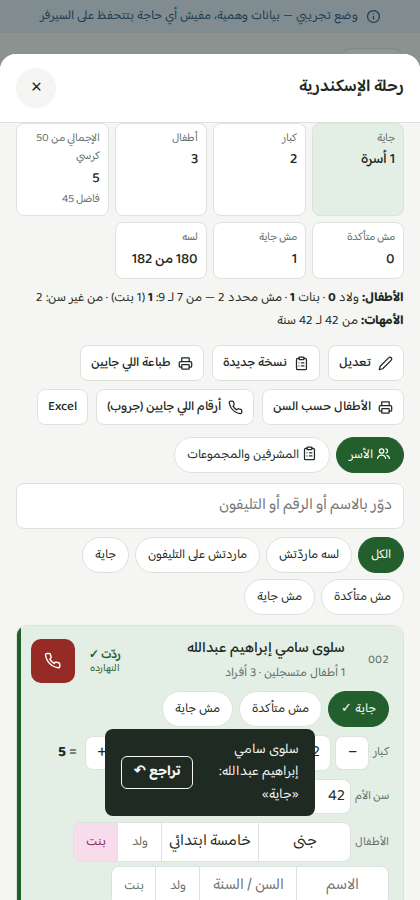
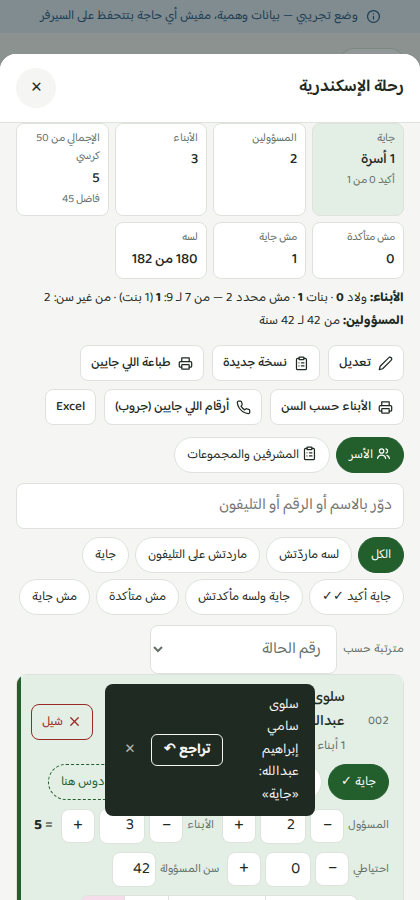
Trips: say «المسؤول / الأبناء» instead of «كبار / أطفال» (v1.3.49)
Claude-Session: https://claude.ai/code/session_01QQNigkUkHPjuU8wEiS2QHJ

diff --git a/app.js b/app.js
@@ -3,7 +3,7 @@ import { MONTHS, norm, cleanPhone, validPhone, phoneIssue, jpegsToPdf, assignKid
 import { ic } from "./icons.js";
 
 /* ================= config ================= */
-export const VERSION = "1.3.48";
+export const VERSION = "1.3.49";
 const SUPABASE_URL = "https://jvgxldhshbyyuftjgfrw.supabase.co";
 const SUPABASE_KEY = "sb_publishable_yS3OzVszjySNzCaRAyWpQA_pmKoPZJT";
 const DOMAIN = "daralekram.app";
@@ -2498,7 +2498,7 @@ function vEvents(){
   const list=events();
   return `<div class="row" style="justify-content:space-between;margin-bottom:12px"><h2 style="margin:0">رحلات وأنشطة</h2>${canWrite()?`<button class="btn pri" id="newEv">${ic("plus")}رحلة / نشاط جديد</button>`:""}</div>
   <div class="list">${list.map(e=>{ const t=eventTotals(e.id); return `<button class="item" data-event="${e.id}"><span class="grow"><span class="nm">${esc(e.title)}</span><br>
-    <span class="sub">${e.date?dLabel(e.date)+" · ":""}${e.place?esc(e.place)+" · ":""}جاية ${num(t.yes)} أسرة · ${num(t.people)} فرد (${num(t.adults)} كبار، ${num(t.kids)} أطفال) · اتردّ ${num(t.n-t.open)} من ${num(t.n)}</span></span>
+    <span class="sub">${e.date?dLabel(e.date)+" · ":""}${e.place?esc(e.place)+" · ":""}جاية ${num(t.yes)} أسرة · ${num(t.people)} فرد (${num(t.adults)} مسؤول، ${num(t.kids)} من الأبناء) · اتردّ ${num(t.n-t.open)} من ${num(t.n)}</span></span>
     ${e.capacity?`<span class="chip ${t.people>e.capacity?"red":""}">${num(t.people)}/${num(e.capacity)} كرسي</span>`:""}</button>`; }).join("")||`<div class="empty">مفيش رحلات لسه${canWrite()?" — اضغط «رحلة / نشاط جديد»":""}</div>`}</div>`;
 }
 function newEvent(){
@@ -2514,7 +2514,7 @@ function newEvent(){
     <h4>مين يتعزم</h4>
     <div class="seg" id="ev_types">${CASE_TYPES.map(t=>`<button class="on" data-ty="${esc(t)}">${esc(t)}</button>`).join("")}</div>
     <label class="chk"><input type="checkbox" id="ev_act" checked> الحالات النشطة بس</label>
-    <label class="chk"><input type="checkbox" id="ev_kids"> اللي عندها أطفال بس</label>
+    <label class="chk"><input type="checkbox" id="ev_kids"> اللي عندها أبناء بس</label>
     <div class="note" id="ev_n"></div>
     <label class="f">ملاحظات<input type="text" id="ev_notes" placeholder="مثال: التجمع 7 الصبح قدام الجمعية"></label>
     <div class="bar"><button class="btn pri" id="ev_go">${ic("save")}اعمل الكشف</button></div>`, s=>{
@@ -2539,7 +2539,7 @@ function copyEvent(id){
     <label class="f">اسم الكشف الجديد<input type="text" id="ec_t" value="${esc(e.title)} — الكشف النهائي"></label>
     <h4>مين ينزل في الكشف الجديد</h4>
     <div class="list">${Object.entries(RULES).map(([k,[l]],i)=>`<label class="item"><input type="radio" name="ec_r" value="${k}" ${k===(cnt("sure")?"sure":"yes")?"checked":""} style="width:20px;height:20px"><span class="grow">${l}</span><b>${num(cnt(k))} أسرة</b></label>`).join("")}</div>
-    <label class="chk"><input type="checkbox" id="ec_keep" checked> انقل الردود والأعداد وأسماء وأعمار الأطفال</label>
+    <label class="chk"><input type="checkbox" id="ec_keep" checked> انقل الردود والأعداد وأسماء وأعمار الأبناء</label>
     <label class="chk"><input type="checkbox" id="ec_sup" ${(e.supervisors||[]).length?"checked":""}> انقل المشرفين (${num((e.supervisors||[]).length)})</label>
     <div class="note">${ic("info")} <span>الكشف القديم بيفضل زي ما هو. وفي الجديد تقدر تضيف أو تشيل أسر عادي.</span></div>
     <div class="bar"><button class="btn pri" id="ec_go">${ic("save")}اعمل النسخة</button><button class="btn" id="ec_back">رجوع</button></div>`, s=>{
@@ -2582,13 +2582,13 @@ function openEvent(id){
         &&(only==="all"||(only==="open"?!r.answer:only==="noans"?!r.answer&&lastCall(b.id,ctx)?.result==="مردش":only==="sure"?r.answer==="جاية"&&r.sure:only==="unsure"?r.answer==="جاية"&&!r.sure:r.answer===only)));
     const seats=e.capacity?e.capacity-t.people:null;
     return `<div class="sub">${e.date?dLabel(e.date):"من غير يوم"}${e.place?" · "+esc(e.place):""}${e.notes?" · "+esc(e.notes):""}</div>
-    <div class="facts evfacts"><div class="ok"><span>جاية</span><strong>${num(t.yes)} أسرة</strong>${t.yes?`<small>أكيد ${num(t.sure)} من ${num(t.yes)}</small>`:""}</div><div><span>كبار</span><strong>${num(t.adults)}</strong></div><div><span>أطفال</span><strong>${num(t.kids)}</strong></div>
+    <div class="facts evfacts"><div class="ok"><span>جاية</span><strong>${num(t.yes)} أسرة</strong>${t.yes?`<small>أكيد ${num(t.sure)} من ${num(t.yes)}</small>`:""}</div><div><span>المسؤولين</span><strong>${num(t.adults)}</strong></div><div><span>الأبناء</span><strong>${num(t.kids)}</strong></div>
       <div class="${seats!=null&&seats<0?"neg":""}"><span>الإجمالي${e.capacity?` من ${num(e.capacity)} كرسي`:""}</span><strong>${num(t.people)}</strong>${seats!=null?`<small>${seats>=0?`فاضل ${num(seats)}`:`زيادة ${num(-seats)}`}</small>`:""}</div>
       ${t.reserve?(()=>{ const wait=t.reserve-t.rsvYes-t.rsvNo; return `<div class="rsv"><span>احتياطي</span><strong>${num(t.reserve)}</strong><small>جاي ${num(t.rsvYes)}${t.rsvNo?` · مش جاي ${num(t.rsvNo)}`:""}${wait?` · مستني ${num(wait)}`:""}</small>${wait?`<small>${seats==null?`لو جم: ${num(t.people+wait)}`:seats<=0?"مفيش كراسي للمستنيين":seats>=wait?"الكراسي تكفي المستنيين":`الكراسي تكفي ${num(seats)} من المستنيين`}</small>`:""}</div>`; })():""}
       <div><span>مش متأكدة</span><strong>${num(t.maybe)}</strong>${t.maybePeople?`<small>${num(t.maybePeople)} فرد</small>`:""}</div><div><span>مش جاية</span><strong>${num(t.no)}</strong></div><div><span>لسه</span><strong>${num(t.open)} من ${num(t.n)}</strong></div></div>
-    ${t.kids||t.moms.length?`<div class="agesum">${t.kids?`<b>الأطفال:</b> ${bandsText(t.bands,true)}`:""}
-      ${t.moms.length?`<br><b>الأمهات:</b> من ${num(Math.min(...t.moms))} لـ ${num(Math.max(...t.moms))} سنة${t.moms.length<t.yes?` <span class="muted">(${num(t.yes-t.moms.length)} من غير سن)</span>`:""}`:""}</div>`:""}
-    <div class="bar">${cw?`<button class="btn sm" id="e_edit">${ic("edit")}تعديل</button><button class="btn sm" id="e_copy">${ic("list")}نسخة جديدة</button>`:""}<button class="btn sm" id="e_print">${ic("printer")}طباعة اللي جايين</button><button class="btn sm" id="e_ages">${ic("printer")}الأطفال حسب السن</button><button class="btn sm" id="e_phones">${ic("phone")}أرقام اللي جايين (جروب)</button><button class="btn sm" id="e_x">Excel</button></div>
+    ${t.kids||t.moms.length?`<div class="agesum">${t.kids?`<b>الأبناء:</b> ${bandsText(t.bands,true)}`:""}
+      ${t.moms.length?`<br><b>المسؤولين:</b> من ${num(Math.min(...t.moms))} لـ ${num(Math.max(...t.moms))} سنة${t.moms.length<t.yes?` <span class="muted">(${num(t.yes-t.moms.length)} من غير سن)</span>`:""}`:""}</div>`:""}
+    <div class="bar">${cw?`<button class="btn sm" id="e_edit">${ic("edit")}تعديل</button><button class="btn sm" id="e_copy">${ic("list")}نسخة جديدة</button>`:""}<button class="btn sm" id="e_print">${ic("printer")}طباعة اللي جايين</button><button class="btn sm" id="e_ages">${ic("printer")}الأبناء حسب السن</button><button class="btn sm" id="e_phones">${ic("phone")}أرقام اللي جايين (جروب)</button><button class="btn sm" id="e_x">Excel</button></div>
     <div class="seg etabs" role="tablist"><button class="${etab==="fam"?"on":""}" data-etab="fam">${ic("users")} الأسر</button><button class="${etab==="sup"?"on":""}" data-etab="sup">${ic("list")} المشرفين والمجموعات${(e.supervisors||[]).length?` (${num(e.supervisors.length)})`:""}</button></div>
     ${etab==="sup"?supPanel(id,supEdit):`
     <div class="row" style="margin:8px 0"><input type="search" id="e_q" placeholder="دوّر بالاسم أو الرقم أو التليفون" value="${esc(q_)}" style="flex:1 1 200px"></div>
@@ -2597,15 +2597,15 @@ function openEvent(id){
     <datalist id="rsv_why">${RSV_WHY.map(w=>`<option value="${w}">`).join("")}</datalist>
     <div class="list evlist">${rows.map(({r,b})=>{ const a=ANSWERS[r.answer], showN=r.answer==="جاية"||r.answer==="مش متأكدة", g=guessCounts(b);
       return `<div class="item col evrow ${a?"a-"+a.cls:rowCallCls(b.id,ctx)}${r.answer==="جاية"&&r.sure?" a-sure":""}">
-        <div class="row" style="width:100%"><span class="code">${esc(b.code)}</span><span class="grow"><span class="nm">${esc(b.name)}</span><br><span class="sub">${kidsOf(b)?`${num(kidsOf(b))} أطفال متسجلين`:"مفيش أطفال متسجلين"}${famSize(b)?` · ${num(famSize(b))} أفراد`:""}</span></span>${callCell(b.id,b.phone,ctx)}${cw?`<button class="evrm" data-evrm="${r.id}" aria-label="شيل ${esc(b.name)} من الكشف">${ic("x")}شيل</button>`:""}</div>
+        <div class="row" style="width:100%"><span class="code">${esc(b.code)}</span><span class="grow"><span class="nm">${esc(b.name)}</span><br><span class="sub">${kidsOf(b)?`${num(kidsOf(b))} أبناء متسجلين`:"مفيش أبناء متسجلين"}${famSize(b)?` · ${num(famSize(b))} أفراد`:""}</span></span>${callCell(b.id,b.phone,ctx)}${cw?`<button class="evrm" data-evrm="${r.id}" aria-label="شيل ${esc(b.name)} من الكشف">${ic("x")}شيل</button>`:""}</div>
         <div class="row evctl"><span class="seg ans" role="group" aria-label="ردها">${Object.entries(ANSWERS).map(([k,v])=>`<button class="${r.answer===k?"on "+v.cls:""}" data-ans="${k}" data-ep="${r.id}" ${edit?"":"disabled"}>${v.label}</button>`).join("")}</span>
           ${r.answer==="جاية"?`<button class="sure ${r.sure?"on":""}" data-sure="${r.id}" aria-pressed="${!!r.sure}" ${edit?"":"disabled"}>${r.sure?"أكيد ✓✓":"أكّدت؟ دوس هنا"}</button>${r.sure&&r.sure_at&&evSort.get(id)==="sure"?`<span class="sub">${esc(new Date(r.sure_at).toLocaleString("ar-EG",{day:"numeric",month:"numeric",hour:"numeric",minute:"2-digit"}))}</span>`:""}`:""}
-          ${showN?`${stp(r,"adults","كبار",edit)}${stp(r,"kids","أطفال",edit)}<span class="evsum">= <b>${num((+r.adults||0)+(+r.kids||0))}</b></span>${stp(r,"reserve","احتياطي",edit)}${+r.reserve?`<span class="ages rsvl"><small>الاحتياطي</small>${reserveOf(r).slice(0,20).map((x,i)=>`<span class="kid rsvp"><input type="text" class="kname" data-rv="${r.id}" data-i="${i}" data-k="who" value="${esc(x.who)}" placeholder="مين؟ (أختها)" ${edit?"":"disabled"} aria-label="الاحتياطي ${i+1} مين"><input type="text" class="kage" data-rv="${r.id}" data-i="${i}" data-k="age" value="${esc(x.stage||(x.age??""))}" placeholder="السن" ${edit?"":"disabled"} aria-label="سن الاحتياطي ${i+1}"><input type="text" class="rwhy" list="rsv_why" data-rv="${r.id}" data-i="${i}" data-k="why" value="${esc(x.why)}" placeholder="ليه احتياطي؟" ${edit?"":"disabled"} aria-label="سبب إنه احتياطي">${[["1","جاي ✓","boy"],["0","مش جاي","girl"]].map(([v,l,c])=>`<button class="sx ${String(x.coming===true?1:x.coming===false?0:"")===v?c:""}" data-rvc="${r.id}" data-i="${i}" data-v="${v}" aria-pressed="${String(x.coming===true?1:x.coming===false?0:"")===v}" ${edit?"":"disabled"}>${l}</button>`).join("")}</span>`).join("")}</span>`:""}`:""}
-          ${showN?`<span class="ages"><small>سن الأم</small><input type="number" min="10" max="110" inputmode="numeric" data-mom="${r.id}" value="${r.mother_age??""}" placeholder="؟" ${edit?"":"disabled"} aria-label="سن الأم"></span>`:""}
-          ${showN&&+r.kids?`<span class="ages"><small>الأطفال</small>${kidsComing(r).slice(0,20).map((k,i)=>`<span class="kid"><input type="text" class="kname" data-kn="${r.id}" data-i="${i}" value="${esc(k.name)}" placeholder="الاسم" ${edit?"":"disabled"} aria-label="اسم الطفل ${i+1}"><input type="text" class="kage" data-age="${r.id}" data-i="${i}" value="${esc(k.stage||(k.a??""))}" placeholder="السن / السنة" title="اكتب السن (مثلاً 9) أو السنة الدراسية (مثلاً 3 ثانوي)" ${edit?"":"disabled"} aria-label="سن الطفل ${i+1}">${["ولد","بنت"].map(x=>`<button class="sx ${k.sex===x?(x==="ولد"?"boy":"girl"):""}" data-sx="${r.id}" data-i="${i}" data-v="${x}" aria-pressed="${k.sex===x}" ${edit?"":"disabled"} aria-label="الطفل ${i+1} ${x}">${x}</button>`).join("")}</span>`).join("")}</span>`:""}
+          ${showN?`${stp(r,"adults","المسؤول",edit)}${stp(r,"kids","الأبناء",edit)}<span class="evsum">= <b>${num((+r.adults||0)+(+r.kids||0))}</b></span>${stp(r,"reserve","احتياطي",edit)}${+r.reserve?`<span class="ages rsvl"><small>الاحتياطي</small>${reserveOf(r).slice(0,20).map((x,i)=>`<span class="kid rsvp"><input type="text" class="kname" data-rv="${r.id}" data-i="${i}" data-k="who" value="${esc(x.who)}" placeholder="مين؟ (أختها)" ${edit?"":"disabled"} aria-label="الاحتياطي ${i+1} مين"><input type="text" class="kage" data-rv="${r.id}" data-i="${i}" data-k="age" value="${esc(x.stage||(x.age??""))}" placeholder="السن" ${edit?"":"disabled"} aria-label="سن الاحتياطي ${i+1}"><input type="text" class="rwhy" list="rsv_why" data-rv="${r.id}" data-i="${i}" data-k="why" value="${esc(x.why)}" placeholder="ليه احتياطي؟" ${edit?"":"disabled"} aria-label="سبب إنه احتياطي">${[["1","جاي ✓","boy"],["0","مش جاي","girl"]].map(([v,l,c])=>`<button class="sx ${String(x.coming===true?1:x.coming===false?0:"")===v?c:""}" data-rvc="${r.id}" data-i="${i}" data-v="${v}" aria-pressed="${String(x.coming===true?1:x.coming===false?0:"")===v}" ${edit?"":"disabled"}>${l}</button>`).join("")}</span>`).join("")}</span>`:""}`:""}
+          ${showN?`<span class="ages"><small>سن المسؤولة</small><input type="number" min="10" max="110" inputmode="numeric" data-mom="${r.id}" value="${r.mother_age??""}" placeholder="؟" ${edit?"":"disabled"} aria-label="سن المسؤولة"></span>`:""}
+          ${showN&&+r.kids?`<span class="ages"><small>الأبناء</small>${kidsComing(r).slice(0,20).map((k,i)=>`<span class="kid"><input type="text" class="kname" data-kn="${r.id}" data-i="${i}" value="${esc(k.name)}" placeholder="الاسم" ${edit?"":"disabled"} aria-label="اسم الطفل ${i+1}"><input type="text" class="kage" data-age="${r.id}" data-i="${i}" value="${esc(k.stage||(k.a??""))}" placeholder="السن / السنة" title="اكتب السن (مثلاً 9) أو السنة الدراسية (مثلاً 3 ثانوي)" ${edit?"":"disabled"} aria-label="سن الطفل ${i+1}">${["ولد","بنت"].map(x=>`<button class="sx ${k.sex===x?(x==="ولد"?"boy":"girl"):""}" data-sx="${r.id}" data-i="${i}" data-v="${x}" aria-pressed="${k.sex===x}" ${edit?"":"disabled"} aria-label="الطفل ${i+1} ${x}">${x}</button>`).join("")}</span>`).join("")}</span>`:""}
 </div>
         ${showN||r.note?`<input type="text" class="evnote" data-note="${r.id}" value="${esc(r.note||"")}" placeholder="ملاحظة (مثال: معاها بنت أختها، محتاجة كرسي متحرك)" ${edit?"":"disabled"}>`:""}
-        ${!showN&&!r.answer?`<span class="sub" style="font-size:12px">لو قالت جاية هنحط ${num(g.adults)} كبار و${num(g.kids)} أطفال وتقدر تعدّل</span>`:""}
+        ${!showN&&!r.answer?`<span class="sub" style="font-size:12px">لو قالت جاية هنحط ${num(g.adults)} مسؤول و${num(g.kids)} من الأبناء وتقدر تعدّل</span>`:""}
       </div>`; }).join("")||`<div class="empty">مفيش نتيجة</div>`}</div>
     ${cw?`<details class="addbox" ${addQ?"open":""}><summary>${ic("plus")}ضيف أسرة للرحلة</summary><button class="btn sm" id="e_paper" style="margin-bottom:8px">${ic("edit")}من ورقة بخط الإيد</button><input type="search" id="e_add" placeholder="اكتب الاسم أو رقم الحالة" value="${esc(addQ)}"><div id="e_addRes"></div></details>`:""}`}`;
   };
@@ -2629,7 +2629,7 @@ function openEvent(id){
       setRsvp(r.id,{ reserve_list:list, reserve_who:list.map(x=>x.who).filter(Boolean).join("، ") }); });
     s.querySelectorAll("[data-num]").forEach(el=>el.onchange=()=>setRsvp(el.dataset.num,{ [el.dataset.f]:Math.max(0,Math.min(el.dataset.f==="reserve"?20:50,Math.round(+el.value||0))) }));
     s.querySelectorAll("[data-note]").forEach(el=>el.onchange=()=>setRsvp(el.dataset.note,{ note:el.value.trim() }));
-    s.querySelectorAll("[data-mom]").forEach(el=>el.onchange=()=>{ const v=el.value===""?null:Math.round(+el.value); if(v!=null&&(v<10||v>110)){ toast("سن الأم لازم يبقى بين 10 و110"); return; } setRsvp(el.dataset.mom,{ mother_age:v }); });
+    s.querySelectorAll("[data-mom]").forEach(el=>el.onchange=()=>{ const v=el.value===""?null:Math.round(+el.value); if(v!=null&&(v<10||v>110)){ toast("السن لازم يبقى بين 10 و110"); return; } setRsvp(el.dataset.mom,{ mother_age:v }); });
     s.querySelectorAll("[data-kn]").forEach(el=>el.onchange=()=>{ const r=EP.get(el.dataset.kn), nm=Array.from({length:+r.kids||0},(_,i)=>(r.kid_names||[])[i]||null);
       nm[+el.dataset.i]=el.value.trim()||null; setRsvp(r.id,{ kid_names:nm }); });
     s.querySelectorAll("[data-sx]").forEach(el=>el.onclick=()=>{ const r=EP.get(el.dataset.sx), sx=Array.from({length:+r.kids||0},(_,i)=>(r.kid_sexes||[])[i]||null), i=+el.dataset.i;
@@ -2695,14 +2695,14 @@ function supPanel(id, editing){
       <label class="f">لحد (اختياري)<input type="number" id="su_max" min="0" max="25" value="${ed?.max??""}"></label></div>
     <div class="bar"><button class="btn pri" id="su_go" data-sid="${ed?.id||""}">${ic("save")}${ed?"حفظ":"ضيف"}</button>${ed?`<button class="btn" id="su_cancel">إلغاء</button>`:""}</div></details>`:"";
   const placed=kids.length-left.length;
-  return `${!kids.length?`<div class="note">${ic("info")} <span>لسه مفيش أطفال جايين — لما تسجل «جاية» وعدد الأطفال في تاب «الأسر»، هيتقسموا هنا.</span></div>`:
-    `<div class="note ${left.length?"":"green"}">${ic("info")} <span>${num(kids.length)} طفل جايين — اتوزع ${num(placed)} على ${num(sups.length)} مشرف${left.length?` · <b>${num(left.length)} مش متوزعين</b> (تحت)`:""}. التوزيع بيتعمل لوحده ويتحدّث مع أي تغيير.</span></div>`}
+  return `${!kids.length?`<div class="note">${ic("info")} <span>لسه مفيش أبناء جايين — لما تسجل «جاية» وعدد الأبناء في تاب «الأسر»، هيتقسموا هنا.</span></div>`:
+    `<div class="note ${left.length?"":"green"}">${ic("info")} <span>${num(kids.length)} من الأبناء جايين — اتوزع ${num(placed)} على ${num(sups.length)} مشرف${left.length?` · <b>${num(left.length)} مش متوزعين</b> (تحت)`:""}. التوزيع بيتعمل لوحده ويتحدّث مع أي تغيير.</span></div>`}
     ${form}
     <div class="list supgroups">${sups.map(sp=>{ const g=groups.get(sp.id)||[]; return `<details class="item col supg" data-keep="${sp.id}" ${supOpen.has(sp.id)?"open":""}><summary class="row" style="width:100%">
         <span class="chip ${sp.sex==="ست"?"girl":"boy"}">${esc(sp.sex)}</span><span class="grow"><span class="nm">${esc(sp.name)}</span><br><span class="sub">${supRule(sp)}${sp.phone?` · <span dir="ltr">${esc(sp.phone)}</span>`:""}</span></span>
-        <span class="supn"><b>${num(g.length)}</b> طفل${g.length?`<small>${sexCount(g)}${(()=>{ const ag=g.filter(k=>k.a!=null).map(k=>k.a); if(!ag.length) return ""; const lo=Math.min(...ag), hi=Math.max(...ag); return lo===hi?` · سن ${num(lo)}`:` · من ${num(lo)} لـ ${num(hi)} سنة`; })()}</small>`:""}</span></summary>
+        <span class="supn"><b>${num(g.length)}</b> فرد${g.length?`<small>${sexCount(g)}${(()=>{ const ag=g.filter(k=>k.a!=null).map(k=>k.a); if(!ag.length) return ""; const lo=Math.min(...ag), hi=Math.max(...ag); return lo===hi?` · سن ${num(lo)}`:` · من ${num(lo)} لـ ${num(hi)} سنة`; })()}</small>`:""}</span></summary>
         <div class="bar" style="margin:6px 0">${sp.phone?`<a class="btn sm" href="tel:${esc(cleanPhone(sp.phone))}">${ic("phone")}اتصل</a>`:""}${cw?`<button class="btn sm" data-sued="${sp.id}">${ic("edit")}تعديل</button><button class="btn sm danger" data-surm="${sp.id}">شيل</button>`:""}</div>
-        <ol class="kids">${g.map(k=>`<li>${kidLine(k)}</li>`).join("")||`<li class="sub">مفيش أطفال لحد دلوقتي</li>`}</ol></details>`; }).join("")}</div>
+        <ol class="kids">${g.map(k=>`<li>${kidLine(k)}</li>`).join("")||`<li class="sub">مفيش أبناء لحد دلوقتي</li>`}</ol></details>`; }).join("")}</div>
     ${left.length?`<h4>مش متوزعين (${num(left.length)})</h4><div class="note red">${ic("alert")} <span>كمّل السن أو ولد/بنت في تاب «الأسر»، أو ضيف مشرف ليهم، أو وسّع سن مشرف.</span></div>
       <ol class="kids">${left.map(x=>`<li>${kidLine(x.kid)} — <b>${esc(x.why)}</b></li>`).join("")}</ol>`:""}
     ${sups.length&&kids.length?`<div class="bar"><button class="btn" id="su_print">${ic("printer")}طباعة المجموعات</button><button class="btn sm" id="su_x">Excel المجموعات</button></div>`:""}`;
@@ -2724,9 +2724,9 @@ function bindSup(s, id, setEdit){
   if(q("#su_cancel")) q("#su_cancel").onclick=()=>setEdit(null);
   s.querySelectorAll("[data-sued]").forEach(el=>el.onclick=e=>{ e.preventDefault(); setEdit(el.dataset.sued); });
   s.querySelectorAll("[data-surm]").forEach(el=>el.onclick=e=>{ e.preventDefault(); const cur=EV.get(id).supervisors||[], sp=cur.find(x=>x.id===el.dataset.surm);
-    saveSups(id, cur.filter(x=>x.id!==sp.id), `${sp.name} اتشال — الأطفال بتوعه اتوزعوا على الباقيين`, cur); });
+    saveSups(id, cur.filter(x=>x.id!==sp.id), `${sp.name} اتشال — الأبناء اللي معاه اتوزعوا على الباقيين`, cur); });
   if(q("#su_print")) q("#su_print").onclick=()=>doPrint(groupsHTML(id), EV.get(id).title+" — المجموعات");
-  if(q("#su_x")) q("#su_x").onclick=()=>{ const { sups, groups, left } = tripGroups(id), rows=[["المشرف","راجل/ست","اسم الطفل","السن","السنة الدراسية","ولد/بنت","الأم","رقم الحالة","تليفون الأم"]];
+  if(q("#su_x")) q("#su_x").onclick=()=>{ const { sups, groups, left } = tripGroups(id), rows=[["المشرف","راجل/ست","الاسم","السن","السنة الدراسية","ولد/بنت","الأم / المسؤولة","رقم الحالة","تليفون المسؤولة"]];
     sups.forEach(sp=>(groups.get(sp.id)||[]).forEach(k=>rows.push([sp.name,sp.sex,k.name||"",k.a??"",k.stage||"",k.sex||"",k.mom,k.code,k.phone])));
     left.forEach(x=>rows.push(["مش متوزع: "+x.why,"",x.kid.name||"",x.kid.a??"",x.kid.stage||"",x.kid.sex||"",x.kid.mom,x.kid.code,x.kid.phone]));
     xlsx({"المجموعات":rows},`${EV.get(id).title} — المجموعات.xlsx`); };
@@ -2734,14 +2734,14 @@ function bindSup(s, id, setEdit){
 function groupsHTML(id){
   const e=EV.get(id), { sups, groups, left } = tripGroups(id);
   return `<div class="ps">${hdr()}<h1>${esc(e.title)} — مجموعات المشرفين</h1><div class="mo">${e.date?dLabel(e.date):""}${e.place?" — "+esc(e.place):""}</div>
-    ${sups.map(sp=>{ const g=groups.get(sp.id)||[]; return `<h3 style="margin:12px 0 4px">${esc(sp.name)} (${esc(sp.sex)})${sp.phone?` — ${esc(sp.phone)}`:""} — ${num(g.length)} طفل${g.length?` (${sexCount(g)})`:""}</h3>
-      <table><thead><tr><th>م</th><th>الاسم</th><th>السن</th><th>ولد/بنت</th><th>الأم</th><th>رقم الحالة</th><th>تليفون الأم</th><th>حضر</th><th>رجع</th></tr></thead><tbody>
+    ${sups.map(sp=>{ const g=groups.get(sp.id)||[]; return `<h3 style="margin:12px 0 4px">${esc(sp.name)} (${esc(sp.sex)})${sp.phone?` — ${esc(sp.phone)}`:""} — ${num(g.length)} فرد${g.length?` (${sexCount(g)})`:""}</h3>
+      <table><thead><tr><th>م</th><th>الاسم</th><th>السن</th><th>ولد/بنت</th><th>الأم / المسؤولة</th><th>رقم الحالة</th><th>تليفون المسؤولة</th><th>حضر</th><th>رجع</th></tr></thead><tbody>
       ${g.map((k,i)=>`<tr><td>${i+1}</td><td class="nm">${esc(k.name||"")}</td><td>${esc(k.stage?ageTxt(k):k.a??"")}</td><td>${k.sex||""}</td><td class="nm">${esc(k.mom)}</td><td>${esc(k.code)}</td><td>${esc(k.phone)}</td><td class="sig"></td><td class="sig"></td></tr>`).join("")}</tbody></table>`; }).join("")}
     ${left.length?`<h3>مش متوزعين (${num(left.length)})</h3><table><tbody>${left.map((x,i)=>`<tr><td>${i+1}</td><td>${esc(x.kid.name||"")}</td><td>${esc(x.kid.stage?ageTxt(x.kid):x.kid.a??"")}</td><td>${x.kid.sex||""}</td><td class="nm">${esc(x.kid.mom)}</td><td>${esc(x.kid.code)}</td><td>${esc(x.why)}</td></tr>`).join("")}</tbody></table>`:""}
     ${signsHTML()}</div>`;
 }
 // Which paper: the usual table, one line per mother with her national ID and room for a stamp, or each mother with her kids under her.
-const TRIP_PRINTS = [["normal","عادي","كل الأعمدة: الأعداد والأطفال والملاحظات"],["nid","بالرقم القومي ومكان الختم","كل أم في سطر: الاسم والرقم القومي وعدد الأفراد ومكان للختم / التوقيع (اختار «مكان ختم» في ارتفاع الصف)"],["fam","كل أم بأطفالها","سطر لكل أم: هي وأطفالها في نفس السطر بخط صغير وجنب كل واحد ☐ — من غير ملاحظات"]];
+const TRIP_PRINTS = [["normal","عادي","كل الأعمدة: الأعداد والأبناء والملاحظات"],["nid","بالرقم القومي ومكان الختم","كل أم في سطر: الاسم والرقم القومي وعدد الأفراد ومكان للختم / التوقيع (اختار «مكان ختم» في ارتفاع الصف)"],["fam","كل أسرة بأبنائها","سطر لكل أسرة: المسؤولة والأبناء في نفس السطر بخط صغير وجنب كل واحد ☐ — من غير ملاحظات"]];
 // → { mode, rsv } or null. rsv: print the standby people (and count the ones marked «جاي»).
 function pickTripPrint(){
   return new Promise(resolve=>{
@@ -2776,18 +2776,18 @@ function eventHTML(id, mode="normal", rsv=true, nid=false){
     </tbody><tfoot><tr><td colspan="4">الإجمالي: ${num(t.yes)} أسرة${rsvLine}</td><td>${num(total)}</td>${rsv?"<td></td>":""}<td></td></tr></tfoot></table>${signsHTML()}</div>`;
   if(mode==="fam"){ const box=x=>`<span class="cb">☐ ${x}</span>`;
     return `${head}
-    <table class="famprint"><thead><tr><th>م</th><th>الأم</th><th>الأطفال</th>${rsv?"<th>احتياطي</th>":""}<th>العدد</th></tr></thead><tbody>
+    <table class="famprint"><thead><tr><th>م</th><th>الأم / المسؤولة</th><th>الأبناء</th>${rsv?"<th>احتياطي</th>":""}<th>العدد</th></tr></thead><tbody>
     ${rows.map(({r,b},i)=>`<tr><td>${i+1}</td><td class="nm">${+r.adults?box(`<b>${esc(b.name)}</b>`):`<b>${esc(b.name)}</b> <small>(مش جاية)</small>`}<br><small>${esc(b.code)}${b.phone?` · ${esc(cleanPhone(b.phone))}`:""}${r.mother_age!=null?` · ${num(r.mother_age)} سنة`:""}</small>${nid&&b.nationalId?`<br><small>الرقم القومي: ${esc(b.nationalId)}</small>`:""}</td>
         <td class="kids">${kidsComing(r).map(k=>box(`${esc(k.name||"طفل")} <small>${[k.stage||(k.a!=null?k.a:""),k.sex||""].filter(x=>x!=="").map(esc).join("، ")}</small>`)).join(" ")}</td>
         ${rsv?`<td class="kids">${reserveOf(r).filter(x=>x.coming!==false).map(x=>box(`${esc(x.who||"؟")} <small>${[x.stage||(x.age??""),x.coming===true?"جاي":""].filter(v=>v!=="").map(esc).join("، ")}</small>`)).join(" ")}</td>`:""}
         <td>${num(cnt(r))}</td></tr>`).join("")}
     </tbody></table>
-    <p><b>الإجمالي:</b> ${num(t.yes)} أسرة · ${num(t.adults)} كبار · ${num(t.kids)} أطفال${rsv&&t.rsvYes?` · ${num(t.rsvYes)} احتياطي جاي`:""} = ${num(total)}${rsv&&wait?` · احتياطي مستني ${num(wait)}`:""}</p>${signsHTML()}</div>`; }
+    <p><b>الإجمالي:</b> ${num(t.yes)} أسرة · ${num(t.adults)} مسؤول · ${num(t.kids)} من الأبناء${rsv&&t.rsvYes?` · ${num(t.rsvYes)} احتياطي جاي`:""} = ${num(total)}${rsv&&wait?` · احتياطي مستني ${num(wait)}`:""}</p>${signsHTML()}</div>`; }
   return `${head}
-    <table><thead><tr><th>م</th><th>رقم الحالة</th><th>الاسم</th>${nid?"<th>الرقم القومي</th>":""}<th>التليفون</th><th>كبار</th><th>سن الأم</th><th>أطفال</th><th>الأطفال (الاسم والسن)</th><th>الإجمالي</th>${rsv?"<th>احتياطي</th>":""}<th>ملاحظة</th><th>حضر</th></tr></thead><tbody>
+    <table><thead><tr><th>م</th><th>رقم الحالة</th><th>الاسم</th>${nid?"<th>الرقم القومي</th>":""}<th>التليفون</th><th>المسؤول</th><th>سن المسؤولة</th><th>الأبناء</th><th>الأبناء (الاسم والسن)</th><th>الإجمالي</th>${rsv?"<th>احتياطي</th>":""}<th>ملاحظة</th><th>حضر</th></tr></thead><tbody>
     ${rows.map(({r,b},i)=>`<tr><td>${i+1}</td><td>${esc(b.code)}</td><td class="nm">${esc(b.name)}${r.sure?" ✓✓":""}</td>${nid?`<td>${esc(b.nationalId||"")}</td>`:""}<td>${esc(cleanPhone(b.phone))}</td><td>${num(+r.adults||0)}</td><td>${r.mother_age??""}</td><td>${num(+r.kids||0)}</td><td>${esc(kidsText(r))}</td><td>${num(cnt(r))}</td>${rsv?`<td>${+r.reserve?`${num(+r.reserve)}: ${esc(reserveText(r))}`:""}</td>`:""}<td>${esc(r.note||"")}</td><td class="sig"></td></tr>`).join("")}
     </tbody><tfoot><tr><td colspan="${nid?5:4}">الإجمالي: ${num(t.yes)} أسرة</td><td>${num(t.adults)}</td><td></td><td>${num(t.kids)}</td><td></td><td>${num(total)}</td>${rsv?`<td>${t.reserve?num(t.reserve):""}</td>`:""}<td colspan="2">${e.capacity?`الكراسي: ${num(e.capacity)}`:""}</td></tr></tfoot></table>
-    ${t.kids?`<p><b>الأطفال:</b> ${bandsText(t.bands)}${rsvLine}</p>`:""}
+    ${t.kids?`<p><b>الأبناء:</b> ${bandsText(t.bands)}${rsvLine}</p>`:""}
     ${signsHTML()}</div>`;
 }
 /* The kids coming, one age at a time: each child by name, with the mother she or he belongs to. */
@@ -2803,42 +2803,42 @@ function kidsByAge(id, { noName = true } = {}){
 function paperToEvent(id){
   const row=bid=>rsvps(id).find(r=>r.beneficiary_id===bid);
   paperSheet({ title:`${EV.get(id).title} — من ورقة بخط الإيد`, addLabel:"علّم «جاية»", back:()=>openEvent(id),
-    note:"اللي في الورقة هيتعلّم «جاية» (ولو مش معزومة هتتضاف). الأطفال مش هيتملوا لوحدهم — بيتكتبوا بعد كده. اللي ليها رد قبل كده مش هيتغيّر.",
+    note:"اللي في الورقة هيتعلّم «جاية» (ولو مش معزومة هتتضاف). الأبناء مش هيتملوا لوحدهم — بيتكتبوا بعد كده. اللي ليها رد قبل كده مش هيتغيّر.",
     inList:bid=>!!row(bid)?.answer, inListText:bid=>`ردها من قبل: «${row(bid).answer}» — مش هيتغيّر`,
     onAdd:async list=>{ const note="من ورقة بخط الإيد", add=list.filter(b=>!row(b.id)), upd=list.map(b=>row(b.id)).filter(r=>r&&!r.answer);
       if(add.length){ const { data, error } = await sb.from("event_people").insert(add.map(b=>({ event_id:id, beneficiary_id:b.id, answer:"جاية", adults:1, kids:0, note }))).select(); if(error){ toast(errMsg(error)); return false; } data.forEach(r=>EP.set(r.id,r)); }
       for(const r of upd){ const { data, error } = await sb.from("event_people").update({ answer:"جاية", adults:1, kids:0, note:r.note||note }).eq("id",r.id).select().single(); if(error){ toast(errMsg(error)); return false; } EP.set(data.id,data); }
-      await logIt("event",id,`من ورقة بخط الإيد: ${list.length} أسرة «جاية»`); changed(); openEvent(id); toast(`اتعلّم ${num(list.length)} «جاية» ✓ — كمّل الأطفال`); } });
+      await logIt("event",id,`من ورقة بخط الإيد: ${list.length} أسرة «جاية»`); changed(); openEvent(id); toast(`اتعلّم ${num(list.length)} «جاية» ✓ — كمّل الأبناء`); } });
 }
 function agesSheet(id){
   const o={ noName:true, pages:false };
   const body=()=>{ const { kids, groups } = kidsByAge(id,o), noNm=tripGroups(id).kids.filter(k=>!k.name).length;
-    return `<p class="sub" style="margin-top:0">الأطفال اللي أمهاتهم «جاية»، كل سن لوحده: اسم الطفل وهو ابن/بنت مين.</p>
-    <label class="chk"><input type="checkbox" id="ag_nn" ${o.noName?"checked":""}> ضمّ الأطفال اللي اسمهم مش مكتوب (${num(noNm)})</label>
+    return `<p class="sub" style="margin-top:0">الأبناء اللي أسرهم «جاية»، كل سن لوحده: الاسم وهو ابن/بنت مين.</p>
+    <label class="chk"><input type="checkbox" id="ag_nn" ${o.noName?"checked":""}> ضمّ اللي اسمهم مش مكتوب (${num(noNm)})</label>
     <label class="chk"><input type="checkbox" id="ag_pg" ${o.pages?"checked":""}> كل سن في ورقة لوحده</label>
     <div class="tbl"><table><thead><tr><th>السن</th><th>بنات</th><th>ولاد</th><th>مش محدد</th><th>الإجمالي</th></tr></thead><tbody>
-      ${groups.map(g=>`<tr><td>${g.label}</td><td class="n">${num(g.list.filter(k=>k.sex==="بنت").length)}</td><td class="n">${num(g.list.filter(k=>k.sex==="ولد").length)}</td><td class="n">${num(g.list.filter(k=>!k.sex).length)}</td><td class="n"><b>${num(g.list.length)}</b></td></tr>`).join("")||`<tr><td colspan="5" class="empty">مفيش أطفال جايين لسه</td></tr>`}
+      ${groups.map(g=>`<tr><td>${g.label}</td><td class="n">${num(g.list.filter(k=>k.sex==="بنت").length)}</td><td class="n">${num(g.list.filter(k=>k.sex==="ولد").length)}</td><td class="n">${num(g.list.filter(k=>!k.sex).length)}</td><td class="n"><b>${num(g.list.length)}</b></td></tr>`).join("")||`<tr><td colspan="5" class="empty">مفيش أبناء جايين لسه</td></tr>`}
     </tbody><tfoot><tr><td>الكل</td><td></td><td></td><td></td><td class="n"><b>${num(kids.length)}</b></td></tr></tfoot></table></div>
     <div class="bar"><button class="btn pri" id="ag_print" ${kids.length?"":"disabled"}>${ic("printer")}طباعة</button><button class="btn" id="ag_x" ${kids.length?"":"disabled"}>Excel</button><button class="btn" id="ag_back">رجوع للرحلة</button></div>`; };
   const mount=s=>{ const q=x=>s.querySelector(x), re=()=>{ s.querySelector(".sh-body").innerHTML=body(); mount(s); };
     q("#ag_nn").onchange=e=>{ o.noName=e.target.checked; re(); }; q("#ag_pg").onchange=e=>{ o.pages=e.target.checked; };
     q("#ag_back").onclick=()=>openEvent(id);
     q("#ag_print").onclick=()=>doPrint(agesHTML(id,o), EV.get(id).title+" — حسب السن");
-    q("#ag_x").onclick=()=>{ const rows=[["السن","اسم الطفل","ولد/بنت","السنة الدراسية","الأم","رقم الحالة","تليفون الأم"]];
+    q("#ag_x").onclick=()=>{ const rows=[["السن","الاسم","ولد/بنت","السنة الدراسية","الأم / المسؤولة","رقم الحالة","تليفون المسؤولة"]];
       kidsByAge(id,o).groups.forEach(g=>g.list.forEach(k=>rows.push([g.a??"مش مكتوب",k.name||"(الاسم مش مكتوب)",k.sex||"",k.stage||"",k.mom,k.code,k.phone])));
-      xlsx({"حسب السن":rows},`${EV.get(id).title} — الأطفال حسب السن.xlsx`,[8,18,8,16,30,9,14]); }; };
-  sheet(EV.get(id).title+" — الأطفال حسب السن", body(), mount);
+      xlsx({"حسب السن":rows},`${EV.get(id).title} — الأبناء حسب السن.xlsx`,[8,18,8,16,30,9,14]); }; };
+  sheet(EV.get(id).title+" — الأبناء حسب السن", body(), mount);
 }
 function agesHTML(id, o){
   const e=EV.get(id), { kids, groups } = kidsByAge(id,o);
-  return `<div class="ps">${hdr()}<h1>${esc(e.title)} — الأطفال حسب السن</h1><div class="mo">${e.date?dLabel(e.date)+" — ":""}${num(kids.length)} طفل (${sexCount(kids)})</div>
-    ${groups.map((g,gi)=>`<div style="${o.pages&&gi?"page-break-before:always":""}"><h3 style="margin:12px 0 4px">${g.label} — ${num(g.list.length)} ${g.list.length>2&&g.list.length<11?"أطفال":"طفل"}${sexCount(g.list)?` (${sexCount(g.list)})`:""}</h3>
-      <table><thead><tr><th>م</th><th>اسم الطفل</th><th>ولد/بنت</th><th>السنة الدراسية</th><th>الأم</th><th>رقم الحالة</th><th>تليفون الأم</th><th>حضر</th></tr></thead><tbody>
+  return `<div class="ps">${hdr()}<h1>${esc(e.title)} — الأبناء حسب السن</h1><div class="mo">${e.date?dLabel(e.date)+" — ":""}${num(kids.length)} من الأبناء (${sexCount(kids)})</div>
+    ${groups.map((g,gi)=>`<div style="${o.pages&&gi?"page-break-before:always":""}"><h3 style="margin:12px 0 4px">${g.label} — ${num(g.list.length)} فرد${sexCount(g.list)?` (${sexCount(g.list)})`:""}</h3>
+      <table><thead><tr><th>م</th><th>الاسم</th><th>ولد/بنت</th><th>السنة الدراسية</th><th>الأم / المسؤولة</th><th>رقم الحالة</th><th>تليفون المسؤولة</th><th>حضر</th></tr></thead><tbody>
       ${g.list.map((k,i)=>`<tr><td>${i+1}</td><td class="nm">${k.name?esc(k.name):"<i>الاسم مش مكتوب</i>"}</td><td>${k.sex||""}</td><td>${esc(k.stage||"")}</td><td class="nm">${esc(k.mom)}</td><td>${esc(k.code)}</td><td>${esc(k.phone)}</td><td class="sig"></td></tr>`).join("")}</tbody></table></div>`).join("")}
     ${signsHTML()}</div>`;
 }
 function eventXlsx(id){
-  const e=EV.get(id), rows=[["رقم الحالة","الاسم","التليفون","واتساب","الرد","كبار","سن الأم","أطفال","الأطفال (السن والنوع)","ولاد","بنات","الإجمالي","احتياطي","الاحتياطي (مين، السن، ليه)","ملاحظة","آخر مكالمة","أطفال متسجلين","عدد الأفراد"]];
+  const e=EV.get(id), rows=[["رقم الحالة","الاسم","التليفون","واتساب","الرد","المسؤول","سن المسؤولة","الأبناء","الأبناء (السن والنوع)","ولاد","بنات","الإجمالي","احتياطي","الاحتياطي (مين، السن، ليه)","ملاحظة","آخر مكالمة","أبناء متسجلين","عدد الأفراد"]];
   rsvps(id).map(r=>({ r, b:B.get(r.beneficiary_id) })).filter(x=>x.b).sort((a,b)=>String(a.b.code).localeCompare(String(b.b.code),"en",{numeric:true}))
     .forEach(({r,b})=>{ const c=lastCall(b.id,"ev:"+id); rows.push([b.code,b.name,cleanPhone(b.phone),waNum(b),r.answer==="جاية"&&r.sure?"جاية أكيد":r.answer||"لسه",+r.adults||0,r.mother_age??"",+r.kids||0,kidsText(r),kidsComing(r).filter(k=>k.sex==="ولد").length,kidsComing(r).filter(k=>k.sex==="بنت").length,(+r.adults||0)+(+r.kids||0),+r.reserve||0,reserveText(r),r.note||"",c?CALL_RES[c.result].label:"",kidsOf(b),famSize(b)||""]); });
   xlsx({"الرحلة":rows, "بيانات الأسر":familySheet(rsvps(id).map(r=>({ r, b:B.get(r.beneficiary_id) })).filter(x=>x.b))},`${e.title}.xlsx`);
@@ -2861,7 +2861,7 @@ function familySheet(list){
   });
   const G=Math.max(0,...fams.map(f=>f.girls.length)), Bn=Math.max(0,...fams.map(f=>f.boys.length)), O=Math.max(0,...fams.map(f=>f.other.length));
   const cols=(n,label)=>Array.from({length:n},(_,i)=>[`${label} ${i+1}`,`سن ${label} ${i+1}`]).flat();
-  const head=["رقم الحالة","اسم الأم","سن الأم","السن من","الرد","التليفون","عدد البنات","عدد الولاد",...cols(G,"بنت"),...cols(Bn,"ولد"),...cols(O,"ابن/بنت (النوع مش متسجل)")];
+  const head=["رقم الحالة","الأم / المسؤولة","سن المسؤولة","السن من","الرد","التليفون","عدد البنات","عدد الولاد",...cols(G,"بنت"),...cols(Bn,"ولد"),...cols(O,"ابن/بنت (النوع مش متسجل)")];
   const cells=(arr,n)=>Array.from({length:n},(_,i)=>arr[i]?[arr[i].name,arr[i].txt]:["",""]).flat();
   return [head, ...fams.map(f=>[f.b.code,f.b.name,f.mom.a,f.mom.src,f.r.answer||"لسه",cleanPhone(f.b.phone),f.girls.length,f.boys.length,...cells(f.girls,G),...cells(f.boys,Bn),...cells(f.other,O)])];
 }

diff --git a/sw.js b/sw.js
@@ -1,6 +1,6 @@
 // Service worker: keeps the app shell on the device so it opens without internet.
 // Case data never goes through here — it comes live from Supabase (plus the app's own offline copy).
-const VERSION = "v1.3.48";
+const VERSION = "v1.3.49";
 const SHELL = `shell-${VERSION}`, STATIC = "static-v2";
 const APP = ["./", "index.html", "app.js", "core.js", "icons.js", "manifest.webmanifest", "icon-192.png", "icon-512.png", "icon-maskable-192.png", "icon-maskable-512.png", "apple-touch-icon.png"];
 // Pinned third-party files never change at the same URL, so they can be cache-first forever.

diff --git a/CHANGELOG.md b/CHANGELOG.md
@@ -1,5 +1,8 @@
 # سجل التغييرات
 
+## 1.3.49 — 12 أكتوبر 2026
+- **الرحلات: الكلام بقى «المسؤول» و«الأبناء» بدل «كبار» و«أطفال»** — عشان ساعات المسؤولة أخت كبيرة مش أم، وساعات الأبناء كبار. «الأم» بقت «الأم / المسؤولة»، و«سن الأم» بقى «سن المسؤولة»، وشكل الطباعة «كل أم بأطفالها» بقى «كل أسرة بأبنائها». في الشاشة والطباعة والـExcel.
+
 ## 1.3.48 — 11 أكتوبر 2026
 - طباعة «كل أم بأطفالها»: الرقم القومي بقى في سطر لوحده تحت رقم الحالة والتليفون («الرقم القومي: …»).
 
